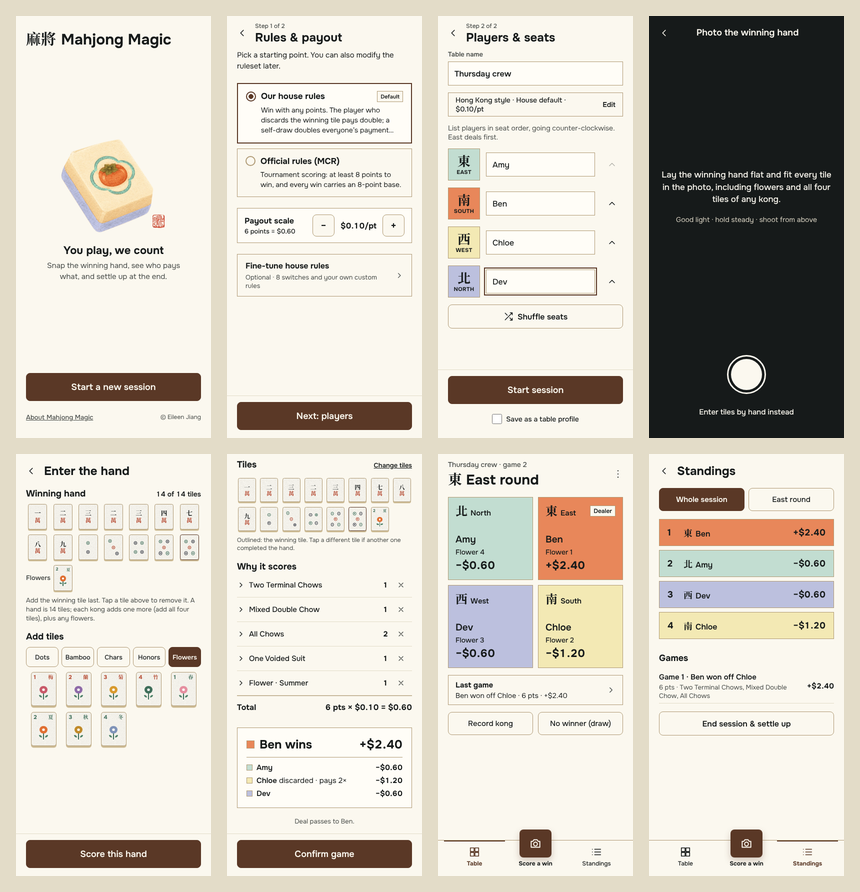
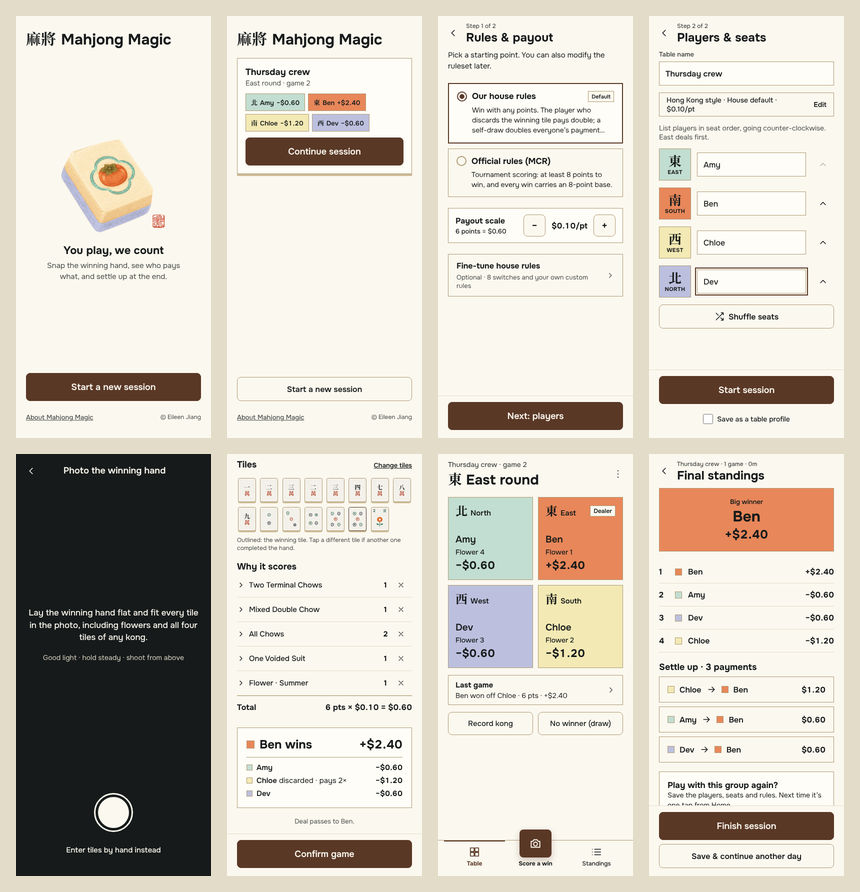
Design doc: move to docs/, new color & type sheet, updated screens, American spelling
Claude-Session: https://claude.ai/code/session_016ijQydV8TgXGpid86v9x5T

diff --git a/src/screens/EndSession.tsx b/src/screens/EndSession.tsx
@@ -18,7 +18,7 @@ export function EndSession() {
     try {
       if (navigator.share) await navigator.share({ text: summary });
       else { await navigator.clipboard.writeText(summary); alert('Summary copied.'); }
-    } catch { /* cancelled */ }
+    } catch { /* canceled */ }
   };
   const sw = (i: number) => <span className="swatch" style={{ width: 14, height: 14, background: PLAYER_COLORS[i] }} />;
 

diff --git a/docs/DESIGN.md b/docs/DESIGN.md
@@ -91,9 +91,9 @@ components:
 
 # Mahjong Magic: design
 
-Companion to [`docs/PRD.md`](docs/PRD.md) (what we build) and [`docs/SPEC.md`](docs/SPEC.md) (how it's built). The tokens above match `src/styles.css`, which is the source of truth in code. The design canvas holds every screen: <https://claude.ai/artifact/NEDBQcLeHcyEun6cFHrFmp>.
+Companion to [`PRD.md`](PRD.md) (what we build) and [`SPEC.md`](SPEC.md) (how it's built). The tokens above match [`src/styles.css`](../src/styles.css), which is the source of truth in code. The design canvas holds every screen: <https://claude.ai/artifact/NEDBQcLeHcyEun6cFHrFmp>.
 
-![The app's main screens](docs/design/screens.png)
+![The app's main screens](design/screens.png)
 
 ## Overview
 
@@ -113,19 +113,19 @@ Companion to [`docs/PRD.md`](docs/PRD.md) (what we build) and [`docs/SPEC.md`](d
 
 ## Colors
 
-![Colour and type sheet](docs/design/palette.png)
+![Color and type sheet](design/palette.png)
 
-- **Ground `#FBF8EF` + ink `#161A1A`.** All text is ink or slate on light surfaces; no grey-on-colour, no white text except on walnut.
-- **Walnut `#5A3826` is the only action colour:** primary buttons, selected segments, the selected-chip ring, the active tab, the "You" tag. Nothing else is brown.
-- **Player colours belong to people, not to meaning.** Mint, apricot, butter and lavender always mark the same player in that session (their seat card, chips, standings row, payout swatch) and are never used for anything else: not success, not warnings, not decoration.
+- **Ground `#FBF8EF` + ink `#161A1A`.** All text is ink or slate on light surfaces; no gray-on-color, no white text except on walnut.
+- **Walnut `#5A3826` is the only action color:** primary buttons, selected segments, the selected-chip ring, the active tab, the "You" tag. Nothing else is brown.
+- **Player colors belong to people, not to meaning.** Mint, apricot, butter and lavender always mark the same player in that session (their seat card, chips, standings row, payout swatch) and are never used for anything else: not success, not warnings, not decoration.
 - **Neutral surfaces** (cards, notes, banners) use ivory `#FFFDF7` with a khaki `#B09B76` 1px outline. Dividers inside lists are linen `#E3DCC8`.
 - **Tile inks** (cinnabar, jade, lacquer) appear only on tile faces, and in the 萬 / 中 / 發 glyphs.
-- **Contrast:** body text is ink on ground (about 17:1). Slate `#4A4E4B` is for secondary text only, at 13px and up. Player colours are backgrounds behind ink text, never text colours.
+- **Contrast:** body text is ink on ground (about 17:1). Slate `#4A4E4B` is for secondary text only, at 13px and up. Player colors are backgrounds behind ink text, never text colors.
 
 ## Typography
 
 - **Onest** for all English and numbers (400 body, 500 captions, 600 labels, 700 titles and money).
-- **Noto Serif TC 700** only for what appears on real tiles: tile faces, wind characters 東南西北, honours, and the 麻將 wordmark. No other Chinese in the UI.
+- **Noto Serif TC 700** only for what appears on real tiles: tile faces, wind characters 東南西北, honors, and the 麻將 wordmark. No other Chinese in the UI.
 - **Scale:** 30 wordmark · 24–28 screen title · 18 section · 15–16 body · 13 caption · 11–12 tags. Money uses tabular figures and is always signed (+$2.40 / −$1.20, with a real minus sign).
 - **No italics anywhere.** Emphasis is weight, not slant.
 - Body line height 1.45; long reading text (About) 1.6.
@@ -146,7 +146,7 @@ Flat by default. Depth is used for exactly three things:
 2. **The Score a win button** floats above the tab bar (`0 6px 14px rgba(90,56,38,0.25)`).
 3. **Sheets** slide up over a 50% ink scrim (`rgba(22,26,26,0.5)`) with a khaki top border.
 
-Selected player chips get a walnut ring with a ground-coloured gap (`0 0 0 2px #FBF8EF, 0 0 0 3px #5A3826`) instead of a shadow.
+Selected player chips get a walnut ring with a ground-colored gap (`0 0 0 2px #FBF8EF, 0 0 0 3px #5A3826`) instead of a shadow.
 
 ## Shapes
 
@@ -159,13 +159,13 @@ Selected player chips get a walnut ring with a ground-coloured gap (`0 0 0 2px #
 
 **Tiles**
 
-![The full tile set](docs/design/tiles.png)
+![The full tile set](design/tiles.png)
 
-- Ivory face, khaki border, tile-edge back, paper grain. Drawn in code (`src/components/Tile.tsx`), so they're crisp at any size.
+- Ivory face, khaki border, tile-edge back, paper grain. Drawn in code ([`src/components/Tile.tsx`](../src/components/Tile.tsx)), so they're crisp at any size.
 - **Characters:** the number in ink over a cinnabar 萬. Five is written 伍.
 - **Dots:** ringed circles in jade, cinnabar and lacquer, laid out like a real set (1 is one large cinnabar ring).
 - **Bamboo:** jade sticks with a node, cinnabar accents on 5, 7 and 9. 1 of bamboo is a single decorated stalk with leaves and a cinnabar bud (not a bird).
-- **Honours:** 東南西北 in ink, 中 cinnabar, 發 jade, white dragon as a double lacquer frame.
+- **Honors:** 東南西北 in ink, 中 cinnabar, 發 jade, white dragon as a double lacquer frame.
 - **Flowers / seasons:** number top-left and character top-right (cinnabar for flowers 梅蘭菊竹, jade for seasons 春夏秋冬), with a small bloom. Seat number = flower number.
 
 **Buttons**
@@ -176,12 +176,12 @@ Selected player chips get a walnut ring with a ground-coloured gap (`0 0 0 2px #
 
 **Segments and choices**
 - Two to five equal segments; the selected one is walnut-filled.
-- Player chips use that player's colour as the fill; the selected one gets the walnut ring.
+- Player chips use that player's color as the fill; the selected one gets the walnut ring.
 - Starting-point choices (Rules) are radio cards: walnut-ringed dot, 2px walnut border when selected, a small "Default" tag.
 
 **Switches:** 52×32, 8px rounded, walnut when on, linen when off, with an ivory 24px knob.
 
-**Seat card (Table):** the player's colour fills the card. Top line: wind character + English wind, Dealer tag. Bottom: name, flower number, signed balance in 22px bold.
+**Seat card (Table):** the player's color fills the card. Top line: wind character + English wind, Dealer tag. Bottom: name, flower number, signed balance in 22px bold.
 
 **Tags:** 22px tall, square, 1px khaki, 11–12px 600. Variants: Dealer, You (walnut fill), House rule, Custom, Edited, Default.
 
@@ -197,14 +197,14 @@ Selected player chips get a walnut ring with a ground-coloured gap (`0 0 0 2px #
 
 **Do**
 - Keep one primary walnut action per screen, in the footer.
-- Give every amount a sign and every player their colour.
+- Give every amount a sign and every player their color.
 - Show tiles as tiles (the Tile component), never as text codes.
 - Write in short, plain sentences, and name the person ("Ben wins", "Chloe discarded").
 - Use real tile vocabulary: chow, pung, kong, discard, self-draw, dealer.
 
 **Don't**
-- Don't use a player colour for anything except that player.
+- Don't use a player color for anything except that player.
 - Don't add Chinese characters as decoration, or use Noto Serif TC for English.
-- Don't use italics, gradients on surfaces, decorative shadows or extra accent colours.
-- Don't round containers, or put text on colour in anything but ink (or ground on walnut).
+- Don't use italics, gradients on surfaces, decorative shadows or extra accent colors.
+- Don't round containers, or put text on color in anything but ink (or ground on walnut).
 - Don't add a second primary button, or hide "Enter tiles by hand" anywhere a photo is involved.

diff --git a/.impeccable/surfaces/src-app-tsx.md b/.impeccable/surfaces/src-app-tsx.md
@@ -13,14 +13,14 @@ Status: style v3 applied to all 13 screens on the canvas page "App · Palette C"
 
 ## Direction contract
 
-THESIS: A modern Chinese game-night tool: rice paper, ink and the four directions' colours, with tiles you could pick up. Refuses both the red-and-gold "Oriental" costume and the generic grey card app.
+THESIS: A modern Chinese game-night tool: rice paper, ink and the four directions' colors, with tiles you could pick up. Refuses both the red-and-gold "Oriental" costume and the generic gray card app.
 
-OWN-WORLD: Clean and flat: warm paper ground #FBF8EF, ink #161A1A, no grain/ornament on UI (grain only on tiles). Seat fills mint #C2DDD1 East, apricot #E8875A South, butter #F3E9B4 West, light lavender #BCC0DE North; every outline 1px khaki #B09B76; dividers #E3DCC8. Primary action dark walnut #5A3826 with cream text; selected states use the same brown. Buttons 8px radius; all containers sharp rectangles. Onest for all English (weights 400–700, tabular numbers); Noto Serif TC only for tiles, winds, honours and the Home title 麻將. Tiles: ivory face, khaki outline, light-lavender back edge, real dot layouts, 伍 for five.
+OWN-WORLD: Clean and flat: warm paper ground #FBF8EF, ink #161A1A, no grain/ornament on UI (grain only on tiles). Seat fills mint #C2DDD1 East, apricot #E8875A South, butter #F3E9B4 West, light lavender #BCC0DE North; every outline 1px khaki #B09B76; dividers #E3DCC8. Primary action dark walnut #5A3826 with cream text; selected states use the same brown. Buttons 8px radius; all containers sharp rectangles. Onest for all English (weights 400–700, tabular numbers); Noto Serif TC only for tiles, winds, honors and the Home title 麻將. Tiles: ivory face, khaki outline, light-lavender back edge, real dot layouts, 伍 for five.
 
-STORY: Players see whose seat is whose by colour and character at a glance, read why a hand scored in English and Chinese, and confirm the money without doubt.
+STORY: Players see whose seat is whose by color and character at a glance, read why a hand scored in English and Chinese, and confirm the money without doubt.
 
 FIRST VIEWPORT: Table screen: title "東 East round", four seat cards (2x2) each led by wind character + English direction side by side, then name, flower number and balance; Dealer tag in khaki outline; walnut "Score a win" pinned at the bottom thumb zone with two khaki-outlined secondary buttons.
 
-FORM: Owner-pinned world; layout from the approved wireframes. Signature move: seat cards as colour swatch cards with vertical characters, plus ivory-on-jade tactile tile components. seed: none (pinned): "i looove the style of the first one", "for color schemes i love on the top right section a couple combos", "i love the modern feel of the third picture and want to use that as primary base", "for the mahjong tile just a broad inspo", "i want it to feel genuinely chinese without being too tacky or caricaturey".
+FORM: Owner-pinned world; layout from the approved wireframes. Signature move: seat cards as color swatch cards with vertical characters, plus ivory-on-jade tactile tile components. seed: none (pinned): "i looove the style of the first one", "for color schemes i love on the top right section a couple combos", "i love the modern feel of the third picture and want to use that as primary base", "for the mahjong tile just a broad inspo", "i want it to feel genuinely chinese without being too tacky or caricaturey".
 
 FINISH: unreviewed and undocumented is unfinished; this build ends with the finish review, the verdict, DESIGN.md, and every shipping raster carrying its provenance

diff --git a/docs/PRD.md b/docs/PRD.md
@@ -178,7 +178,7 @@ Presets marked ★ are **on in the House default default profile**.
 - **Anyone can view** standings, history and their own "My seat" card at any time.
 - No accounts: a phone is remembered for that session only.
 
-**Navigation during a session:** a bottom tab bar with three items: **Table**, **Score a win** (the large centre button, which opens the camera directly, so a fluent player is one tap from snapping the hand), and **Standings**. Everything else (Home, Rules, Players, About, End session) lives in the **⋯ menu** on the Table screen.
+**Navigation during a session:** a bottom tab bar with three items: **Table**, **Score a win** (the large center button, which opens the camera directly, so a fluent player is one tap from snapping the hand), and **Standings**. Everything else (Home, Rules, Players, About, End session) lives in the **⋯ menu** on the Table screen.
 
 **Cross-cutting:** every confirmed action is saved immediately: on the device, and to the shared session when one exists. A refresh, a closed tab, a locked phone or a dropped connection never loses the session; a phone that rejoins catches up automatically.
 
@@ -221,7 +221,7 @@ Presets marked ★ are **on in the House default default profile**.
 - **"No winner (draw)"** opens a quick confirm: "Record a draw for game 6? No money moves · deal passes to Ben."
 
 ### 5.3 Scoring: calculate, track, and show to everyone
-1. When someone wins, any player taps **"Score a win"** (the centre tab). In a shared session the winner taps it on their own phone, and the app pre-selects them as the winner.
+1. When someone wins, any player taps **"Score a win"** (the center tab). In a shared session the winner taps it on their own phone, and the app pre-selects them as the winner.
 2. They **take a photo** of the winning hand (or tap **"Enter tiles manually"**).
 3. If the app is unsure about any tile, it **flashes what it picked up** and asks the user to confirm or fix the highlighted tiles. If it's confident, this step is skipped.
 4. They choose **who won** and **self-draw / discard (from whom)**.
@@ -305,7 +305,7 @@ Presets marked ★ are **on in the House default default profile**.
 ## 7. Constraints & conventions
 
 ### Rules (decided: MCR fan + House default house profile)
-The v1 variant is **WMO Mahjong Competition Rules (2014)**, labelled "Hong Kong style (MCR rules)" ([`variants/MCR.md`](./variants/MCR.md)). The default house profile is **House default** ([`variants/GAME_NIGHT_DEFAULT.md`](./variants/GAME_NIGHT_DEFAULT.md)).
+The v1 variant is **WMO Mahjong Competition Rules (2014)**, labeled "Hong Kong style (MCR rules)" ([`variants/MCR.md`](./variants/MCR.md)). The default house profile is **House default** ([`variants/GAME_NIGHT_DEFAULT.md`](./variants/GAME_NIGHT_DEFAULT.md)).
 
 | Question | House default default | Pure MCR | Preset that changes it |
 |---|---|---|---|

diff --git a/docs/variants/MCR.md b/docs/variants/MCR.md
@@ -1,7 +1,7 @@
 # Variant reference: Chinese Official (MCR)
 
 **Source:** World Mahjong Organization, *Mahjong Competition Rules* (2014 English edition), the whole book: ch. 3 (rules of play, scoring, fouls) and appendices 1–10.
-In the app, this is the **base rulebook** for the variant labelled **"Hong Kong style (MCR rules)"**. The owner's group plays it with house rules on top: see [`GAME_NIGHT_DEFAULT.md`](./GAME_NIGHT_DEFAULT.md), which is the app's **default house profile**.
+In the app, this is the **base rulebook** for the variant labeled **"Hong Kong style (MCR rules)"**. The owner's group plays it with house rules on top: see [`GAME_NIGHT_DEFAULT.md`](./GAME_NIGHT_DEFAULT.md), which is the app's **default house profile**.
 
 > This file records every rule from the book that matters to the app, summarized in our own words so the PDF doesn't need to be committed (WMO copyright). Section refs (§) point back to the book for checking. Where the book's English looks like a mistranslation, it's flagged ⚠ and kept as written.
 

diff --git a/README.md b/README.md
@@ -2,7 +2,7 @@
 
 Mahjong scoring and payouts for a friendly game night: enter the winning hand, see every scoring pattern and who pays what, and settle up at the end.
 
-- Product: [`docs/PRD.md`](docs/PRD.md) · Tech spec: [`docs/SPEC.md`](docs/SPEC.md) · Design: [`DESIGN.md`](DESIGN.md)
+- Product: [`docs/PRD.md`](docs/PRD.md) · Tech spec: [`docs/SPEC.md`](docs/SPEC.md) · Design: [`docs/DESIGN.md`](docs/DESIGN.md)
 - Rules: Hong Kong style (MCR) with the owner's House default rules ([`docs/variants`](docs/variants))
 
 ## Run it

diff --git a/PRODUCT.md b/PRODUCT.md
@@ -83,5 +83,5 @@ The name "Mahjong Magic" is the only commitment. Voice, logo and visual identity
 
 - Phone in portrait, readable at arm's length: high-contrast text, and dark mode follows the system setting.
 - Tap targets of at least 44px; no horizontal scroll at 360px.
-- Money uses a +/− sign as well as colour, never colour alone.
+- Money uses a +/− sign as well as color, never color alone.
 - Winds, flowers and tiles always show the Chinese character and the English name together, for players who don't read Chinese.

diff --git a/docs/SPEC.md b/docs/SPEC.md
@@ -1,6 +1,6 @@
 # Mahjong Magic: technical spec (stage 1)
 
-Companion to [PRD.md](./PRD.md) and [DESIGN.md](../DESIGN.md). This covers how stage 1 is built: one phone keeps score, hands are entered by tapping tiles, and the app is a static site on GitHub Pages.
+Companion to [PRD.md](./PRD.md) and [DESIGN.md](./DESIGN.md). This covers how stage 1 is built: one phone keeps score, hands are entered by tapping tiles, and the app is a static site on GitHub Pages.
 
 ## Stages
 | Stage | Ships | Needs from the owner |
